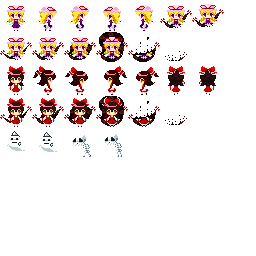
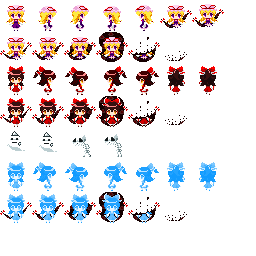
update: add reimu(mind)

diff --git a/src/js/object/exchange_anim.js b/src/js/object/exchange_anim.js
@@ -1,17 +1,18 @@
 'use strict';
 var base_object = require('../hakurei').object.sprite;
 var util = require('../hakurei').util;
+var CONSTANT = require('../constant');
 
-var AlterEgo = function (scene) {
+var AlterEgo = function (scene, parent) {
 	base_object.apply(this, arguments);
 };
 util.inherit(AlterEgo, base_object);
 
-AlterEgo.prototype.init = function(x, y, anim_span, is_yukari) {
+AlterEgo.prototype.init = function(x, y, anim_span, chara_no) {
 	base_object.prototype.init.apply(this, arguments);
 	this.x(x);
 	this.y(y);
-	this.is_yukari = is_yukari ? true : false;
+	this.chara_no = chara_no;
 
 	this.anim_span = anim_span;
 };
@@ -19,22 +20,52 @@ AlterEgo.prototype.init = function(x, y, anim_span, is_yukari) {
 AlterEgo.prototype.beforeDraw = function(){
 	base_object.prototype.beforeDraw.apply(this, arguments);
 };
+AlterEgo.prototype.isReimu = function(){
+	return this.chara_no === CONSTANT.REIMU_NO;
+};
+AlterEgo.prototype.isYukari = function(){
+	return this.chara_no === CONSTANT.YUKARI_NO;
+};
+AlterEgo.prototype.isExReimu = function(){
+	return this.chara_no === CONSTANT.EX_REIMU_NO;
+};
+
 
 AlterEgo.prototype.spriteName = function(){
 	return "stage_tile_32";
 };
 AlterEgo.prototype.spriteIndices = function(){
-	if (this.is_yukari) {
+	// 紫
+	if (this.isYukari()) {
 		return [
 			{x: 0, y: 1}, {x: 1, y: 1},{x: 2, y: 1}, {x:3, y: 1}, {x:3, y: 1}, {x:4, y: 1}, {x:5, y: 1}, {x: 6, y:1},
 			{x: 6, y: 3}, {x: 5, y: 3},{x: 4, y:3}, {x:3, y:3}, {x:3, y:3}, {x:2, y: 3}, {x:1, y: 3}, {x: 0, y:3},
 		];
 	}
-	else {
+	// 霊夢(精神)
+	else if (this.isExReimu()) {
 		return [
-			{x: 0, y: 3}, {x: 1, y: 3},{x: 2, y:3}, {x:3, y:3}, {x:3, y:3}, {x:4, y: 3}, {x:5, y: 3}, {x: 6, y:3},
-			{x: 6, y: 1}, {x: 5, y: 1},{x: 4, y: 1}, {x:3, y: 1}, {x:3, y: 1}, {x:2, y: 1}, {x:1, y: 1}, {x: 0, y:1},
+			{x: 0, y: 6}, {x: 1, y: 6},{x: 2, y: 6}, {x:3, y: 6}, {x:3, y: 6}, {x:4, y: 6}, {x:5, y: 6}, {x: 6, y:6},
+			{x: 6, y: 3}, {x: 5, y: 3},{x: 4, y:3}, {x:3, y:3}, {x:3, y:3}, {x:2, y: 3}, {x:1, y: 3}, {x: 0, y:3},
 		];
+	}
+	// 霊夢(実体)
+	else {
+		// 分身が紫の場合
+		if (this.parent.alterego.isYukari()) {
+			return [
+				{x: 0, y: 3}, {x: 1, y: 3},{x: 2, y:3}, {x:3, y:3}, {x:3, y:3}, {x:4, y: 3}, {x:5, y: 3}, {x: 6, y:3},
+				{x: 6, y: 1}, {x: 5, y: 1},{x: 4, y: 1}, {x:3, y: 1}, {x:3, y: 1}, {x:2, y: 1}, {x:1, y: 1}, {x: 0, y:1},
+			];
+		}
+		// 分身が霊夢(精神)の場合
+		else if (this.parent.alterego.isExReimu()) {
+			return [
+				{x: 0, y: 3}, {x: 1, y: 3},{x: 2, y:3}, {x:3, y:3}, {x:3, y:3}, {x:4, y: 3}, {x:5, y: 3}, {x: 6, y:3},
+				{x: 6, y: 6}, {x: 5, y: 6},{x: 4, y: 6}, {x:3, y: 6}, {x:3, y: 6}, {x:2, y: 6}, {x:1, y: 6}, {x: 0, y:6},
+			];
+		}
+
 	}
 };
 AlterEgo.prototype.spriteWidth = function(){

diff --git a/src/js/object/alterego.js b/src/js/object/alterego.js
@@ -9,13 +9,21 @@ var AlterEgo = function (scene) {
 };
 util.inherit(AlterEgo, base_object);
 
-AlterEgo.prototype.init = function() {
+AlterEgo.prototype.init = function(chara_no) {
 	base_object.prototype.init.apply(this, arguments);
 
 	this.span = 0;
 	this.exchange_animation_start_count = 0;
 	this.exchange_anim = new ExchangeAnim(this.scene);
+	this.chara_no = chara_no;
 };
+AlterEgo.prototype.isYukari = function(){
+	return this.chara_no === CONSTANT.YUKARI_NO;
+};
+AlterEgo.prototype.isExReimu = function(){
+	return this.chara_no === CONSTANT.EX_REIMU_NO;
+};
+
 
 AlterEgo.prototype.x = function(){
 	if (this.scene.isVertical()) {
@@ -107,11 +115,36 @@ AlterEgo.prototype.spriteName = function(){
 	return "stage_tile_32";
 };
 AlterEgo.prototype.spriteAnimationSpan = function(){
-	return 30;
+	if (this.isYukari()) {
+		return 30;
+	}
+	else {
+		return 10;
+	}
 };
 AlterEgo.prototype.spriteIndices = function(){
-	return [{x: 5, y: 0}, {x: 6, y: 0}];
+	// 紫
+	if (this.isYukari()) {
+		return [{x: 5, y: 0}, {x: 6, y: 0}];
+	}
+	// 霊夢(精神)
+	else {
+		if(this.parent.isClimbDown()) {
+			return [{x: 5, y: 5}, {x: 6, y: 5}];
+		}
+		else {
+			var is_reflect;
+			if (this.scene.isVertical()) {
+				is_reflect = this.parent.is_reflect;
+			}
+			else {
+				is_reflect = !this.parent.is_reflect; // 自機と左右対象
+			}
+			return(is_reflect ? [{x: 3, y: 5}, {x: 4, y: 5}] : [{x: 1, y: 5}, {x: 2, y:5}]);
+		}
+	}
 };
+
 AlterEgo.prototype.spriteWidth = function(){
 	return 32;
 };
@@ -123,8 +156,7 @@ AlterEgo.prototype.startExchange = function(span) {
 	this.exchange_animation_start_count = this.frame_count;
 	this.span = span;
 
-	var is_yukari = true;
-	this.exchange_anim.init(this.x(), this.y(), span, is_yukari);
+	this.exchange_anim.init(this.x(), this.y(), span, this.chara_no);
 	this.addSubObject(this.exchange_anim);
 };
 module.exports = AlterEgo;

diff --git a/src/js/object/tile/player.js b/src/js/object/tile/player.js
@@ -92,11 +92,11 @@ Player.prototype.init = function(x, y) {
 
 	// 分身
 	this.alterego = new AlterEgo(this.scene, this);
-	this.alterego.init();
+	this.alterego.init(this.scene.isInNormalStory() ? CONSTANT.YUKARI_NO : CONSTANT.EX_REIMU_NO);
 	this.addSubObject(this.alterego);
 
 	// 位置交換アニメーション
-	this.exchange_anim = new ExchangeAnim(this.scene);
+	this.exchange_anim = new ExchangeAnim(this.scene, this);
 
 	// 初期状態
 	this.changeState(CONSTANT.STATE_NORMAL);

diff --git a/src/js/constant.js b/src/js/constant.js
@@ -48,6 +48,12 @@ var CONSTANT = {
 	STATE_FALLDOWN:  5,
 	STATE_MOVELEFT:  6,
 	STATE_MOVERIGHT: 7,
+
+
+	// キャラ ドット絵一覧
+	REIMU_NO:    1, // 霊夢(実体)
+	YUKARI_NO:   2, // 紫
+	EX_REIMU_NO: 3, // 霊夢(精神)
 };
 
 // レンダリングの順番
